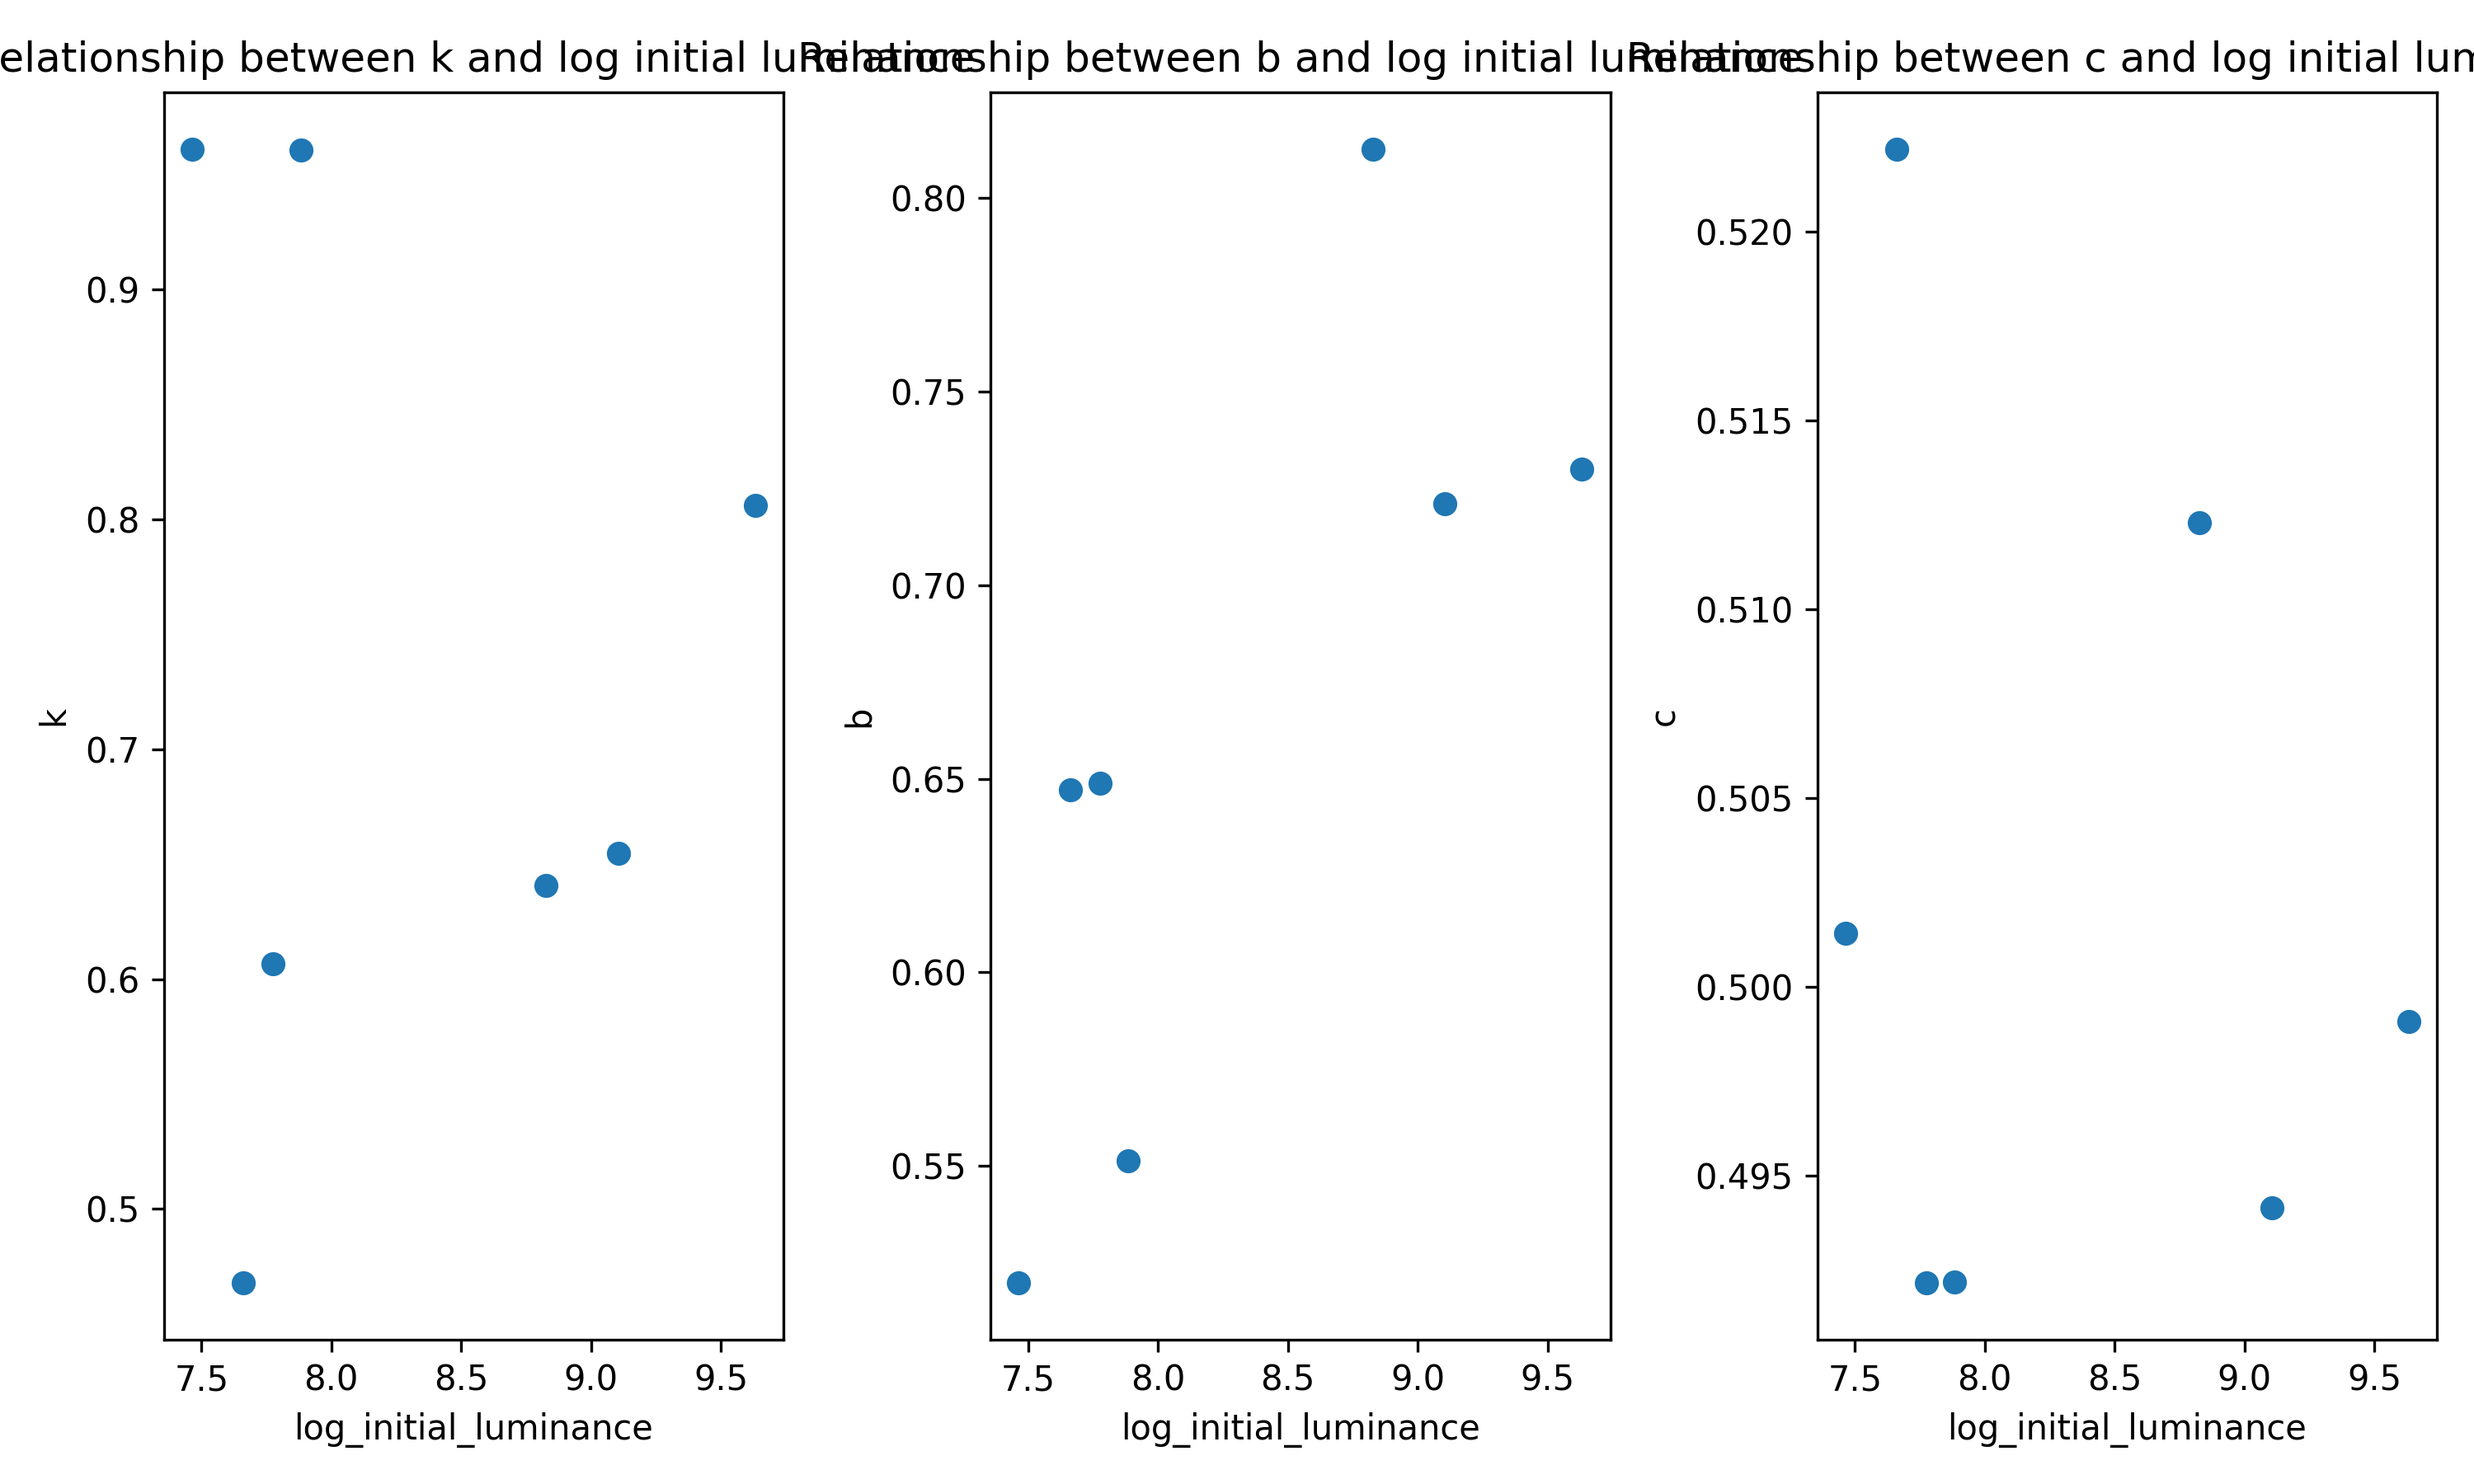
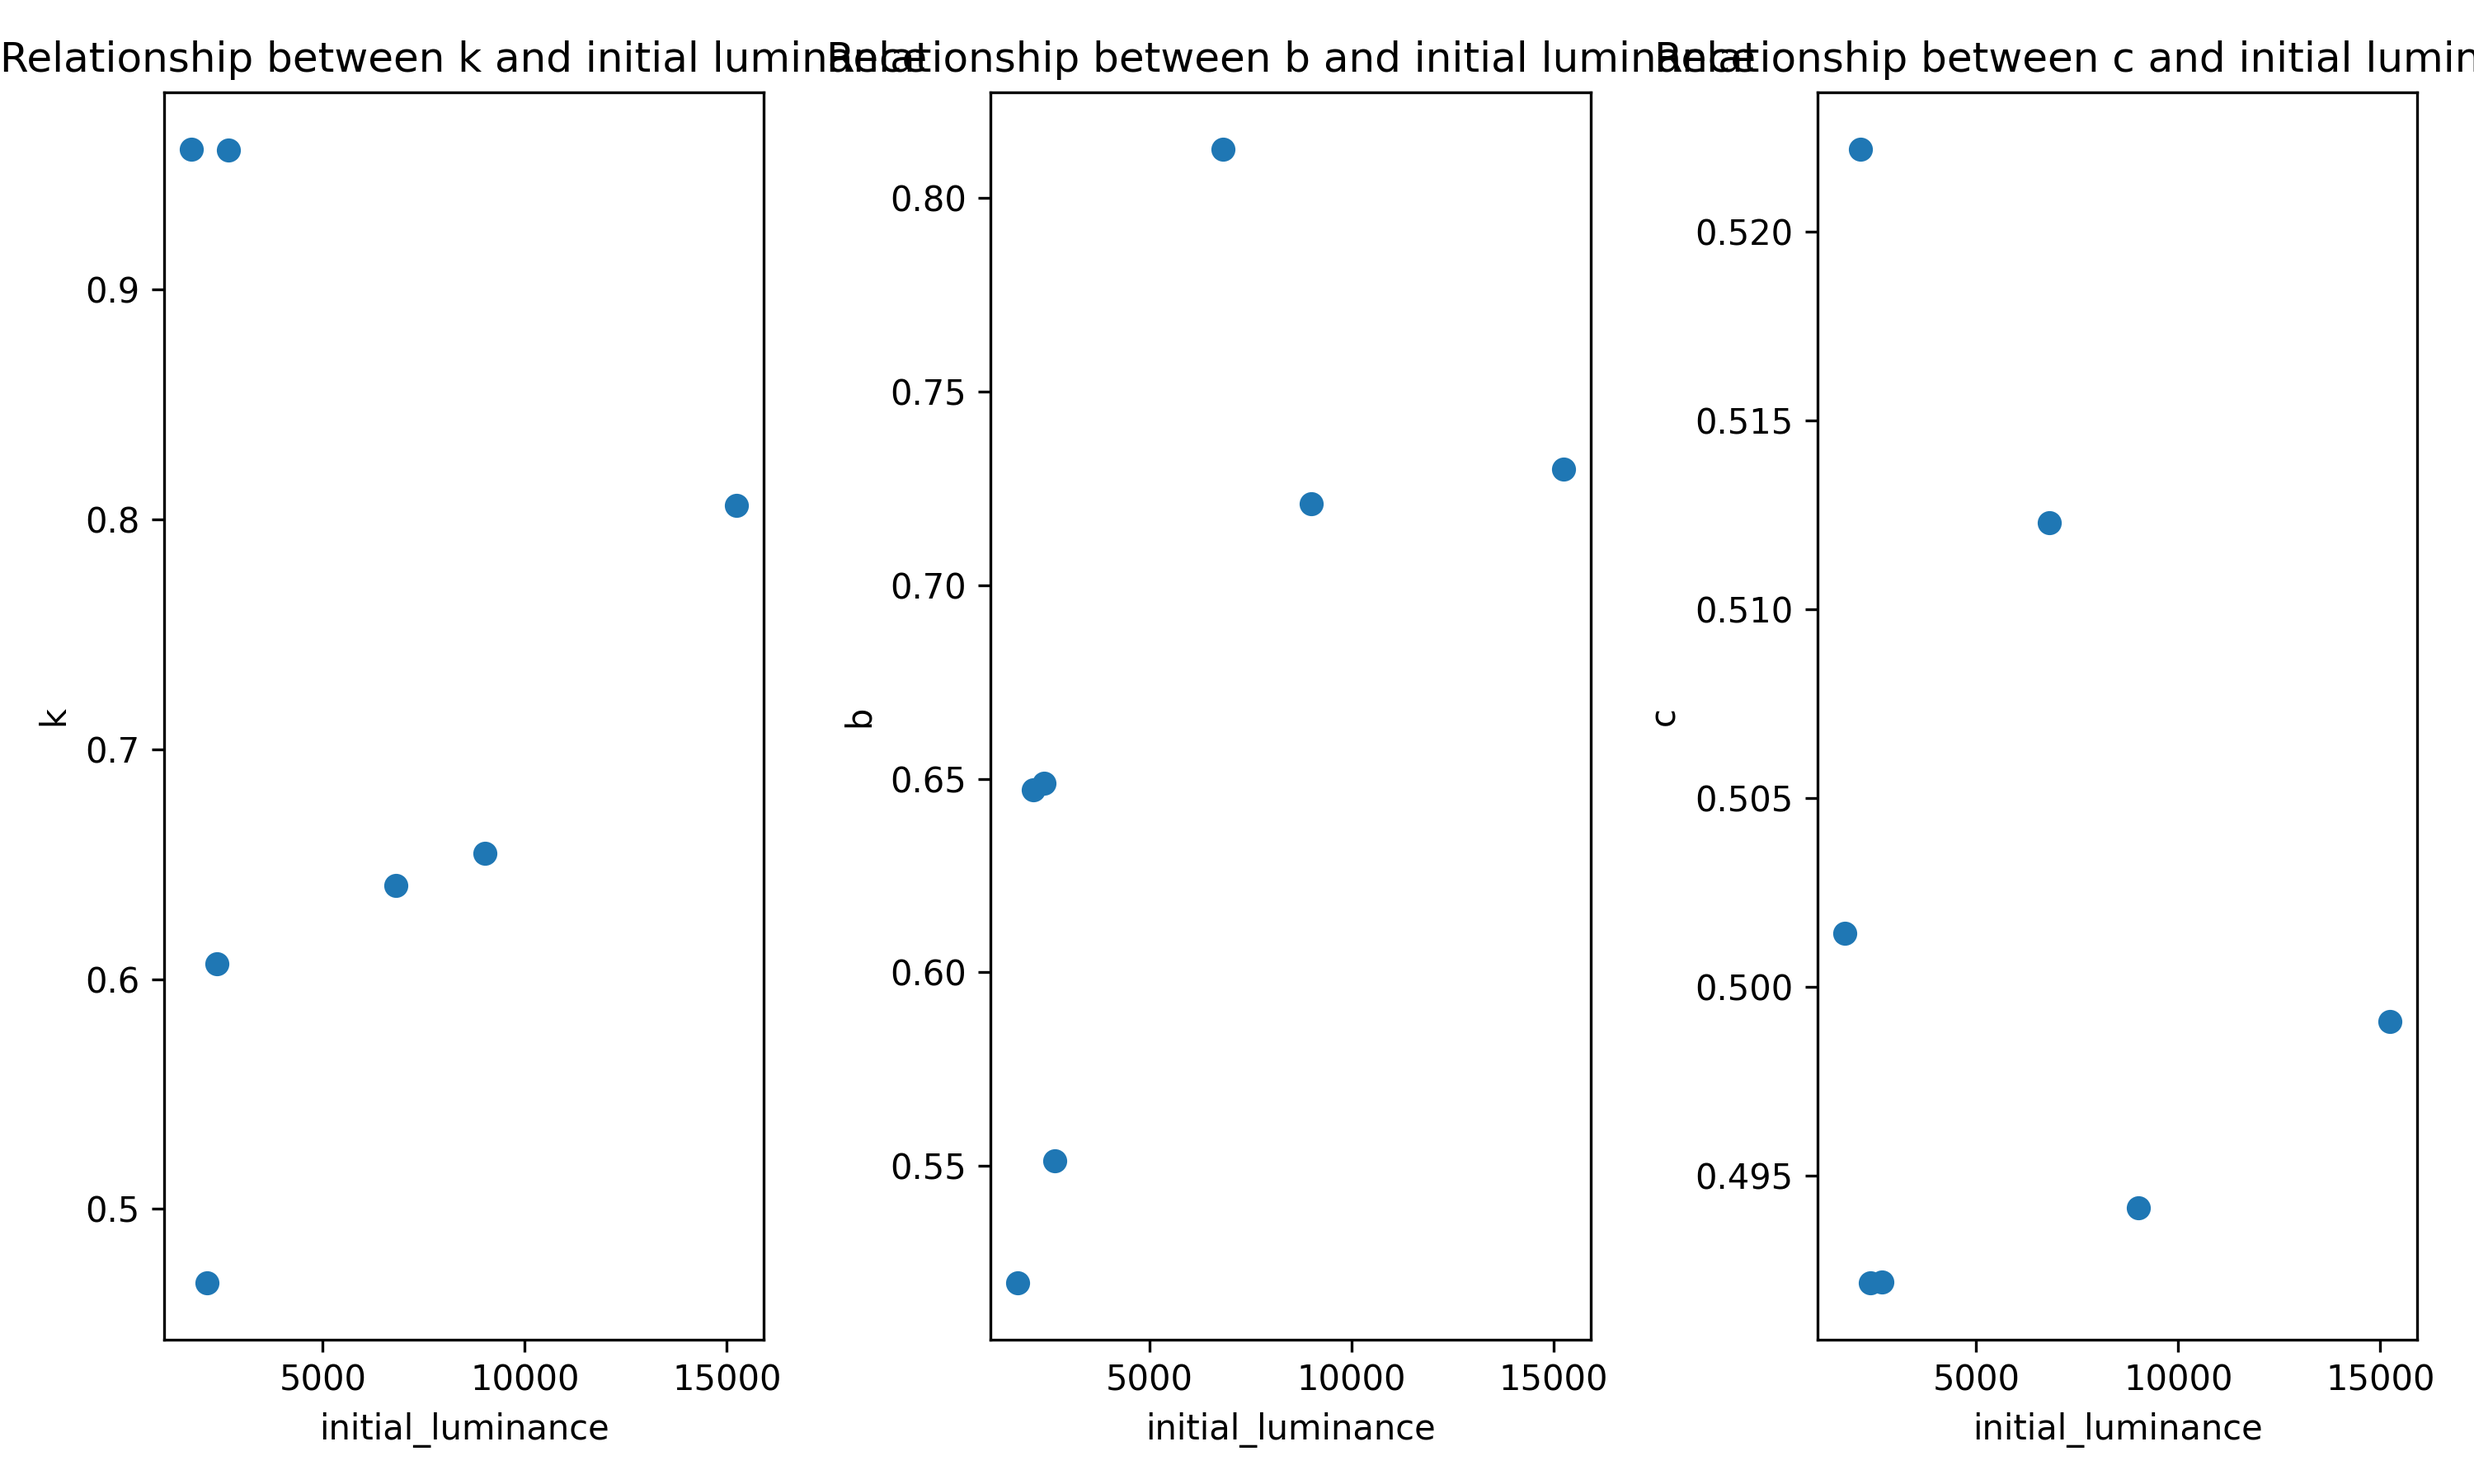
Use constant fit for High group, linear fit for Low group

diff --git a/HumanEyesAdaptator.py b/HumanEyesAdaptator.py
@@ -242,7 +242,7 @@ def fit_on_all_data_sets(data_sets, fit_func, output_base_dir):
         k_values, b_values, c_values, r2_avg, r2_scores, delta_Es = adaptator.fit()
         for k, b, c in zip(k_values, b_values, c_values):
             all_params.append((k, b, c))
-        luminance_values.extend([np.log(initial_luminance)] * len(k_values))  # Use log(initial_luminance) for fitting
+        luminance_values.extend([initial_luminance] * len(k_values))  # Use initial_luminance for fitting
 
         # Save comparison images using fitted k, b, and c
         output_dir = os.path.join(output_base_dir, f'comparison_images_{os.path.basename(os.path.dirname(initial_png_file))}')
@@ -274,21 +274,21 @@ def visualize_params(all_params, initial_luminance, output_file):
 
     plt.subplot(1, 3, 1)
     plt.scatter(unique_luminance, mean_k)
-    plt.xlabel('log_initial_luminance')
+    plt.xlabel('initial_luminance')
     plt.ylabel('k')
-    plt.title('Relationship between k and log initial luminance')
+    plt.title('Relationship between k and initial luminance')
 
     plt.subplot(1, 3, 2)
     plt.scatter(unique_luminance, mean_b)
-    plt.xlabel('log_initial_luminance')
+    plt.xlabel('initial_luminance')
     plt.ylabel('b')
-    plt.title('Relationship between b and log initial luminance')
+    plt.title('Relationship between b and initial luminance')
 
     plt.subplot(1, 3, 3)
     plt.scatter(unique_luminance, mean_c)
-    plt.xlabel('log_initial_luminance')
+    plt.xlabel('initial_luminance')
     plt.ylabel('c')
-    plt.title('Relationship between c and log initial luminance')
+    plt.title('Relationship between c and initial luminance')
     
     plt.tight_layout()
     plt.savefig(output_file, dpi=300)
@@ -298,24 +298,19 @@ def fit_relationships(all_params, luminance_values):
     k_values, b_values, c_values = zip(*all_params)
     k_values, b_values, c_values = np.array(k_values).ravel(), np.array(b_values).ravel(), np.array(c_values).ravel()
 
-    log_luminance = [item for l in luminance_values for item in [l]*10]
+    # Fit linear models for k, b, and c with respect to initial_luminance
+    def linear_model(x, m, c):
+        return m * x + c
 
-    # Fit linear models for k, b, and c with respect to log(initial_luminance)
-    def multi_var_model(x, b0, b1, b2):
-        return b0 + b1 * x[0] + b2 * x[1]
-
-    k_params, _ = curve_fit(multi_var_model, [log_luminance], k_values)
-    b_params, _ = curve_fit(multi_var_model, [log_luminance], b_values)
-    c_params, _ = curve_fit(multi_var_model, [log_luminance], c_values)
+    k_params, _ = curve_fit(linear_model, luminance_values, k_values)
+    b_params, _ = curve_fit(linear_model, luminance_values, b_values)
+    c_params, _ = curve_fit(linear_model, luminance_values, c_values)
 
     return k_params, b_params, c_params
 
 def apply_generalized_model(data_sets, k_params, b_params, c_params, output_base_dir):
     def linear_model(x, m, c):
         return m * x + c
-
-    def multi_var_model(x, b0, b1, b2):
-        return b0 + b1 * x[0] + b2 * x[1]
 
     all_r2_scores = []
     all_delta_Es = []
@@ -325,10 +320,9 @@ def apply_generalized_model(data_sets, k_params, b_params, c_params, output_base
         adaptator = HumanEyesAdaptator(initial_png_file, adjusted_png_files, initial_luminance, "gamma", luminance_file)
         
         # Calculate k, b, and c using the fitted relationships
-        log_luminance = np.log(initial_luminance)
-        k_values = k_params[0] + k_params[1] * log_luminance
-        b_values = b_params[0] + b_params[1] * log_luminance
-        c_values = c_params[0] + c_params[1] * log_luminance
+        k_value = linear_model(initial_luminance, *k_params)
+        b_value = linear_model(initial_luminance, *b_params)
+        c_value = linear_model(initial_luminance, *c_params)
         
         # Save adjusted images using best fit parameters
         output_dir = os.path.join(output_base_dir, 'adjusted_with_generalized_model', os.path.basename(initial_png_file).split('.')[0])
@@ -341,7 +335,7 @@ def apply_generalized_model(data_sets, k_params, b_params, c_params, output_base
             X_Ave = adaptator.X_Ave_values[i]
 
             # Calculate adjusted luminance
-            Y_pred = adaptator.apply_brightness_adjustment(adaptator.X, X_Ave, k_values[i], b_values[i], c_values[i])
+            Y_pred = adaptator.apply_brightness_adjustment(adaptator.X, X_Ave, k_value, b_value, c_value)
             
             # Calculate R² and ΔE
             r2 = r2_score(Y.ravel(), Y_pred.ravel())
@@ -352,7 +346,7 @@ def apply_generalized_model(data_sets, k_params, b_params, c_params, output_base
         all_r2_scores.append(r2_scores)
         all_delta_Es.append(delta_Es)
 
-        adaptator.save_comparison_images(output_dir, k_values, b_values, c_values, adaptator.X_Ave_values, r2_scores, delta_Es)
+        adaptator.save_comparison_images(output_dir, [k_value]*len(adjusted_png_files), [b_value]*len(adjusted_png_files), [c_value]*len(adjusted_png_files), adaptator.X_Ave_values, r2_scores, delta_Es)
 
     return all_r2_scores, all_delta_Es
 
@@ -375,7 +369,7 @@ def visualize_best_fit_results(all_r2_scores, all_delta_Es, output_file, k_param
         plt.title('ΔE for Each Adjusted Image')
 
     # Add best parameters and average R² to the plot
-    plt.figtext(0.5, 0.01, f'Fitted parameters relationships: k = {k_params[0]:.2f}*log(X_Ave) + {k_params[1]:.2f}, b = {b_params[0]:.2f}*log(X_Ave) + {b_params[1]:.2f}, c = {c_params[0]:.2f}*log(X_Ave) + {c_params[1]:.2f} | Best Average R²: {r2_avg:.2f}', ha='center', fontsize=10)
+    plt.figtext(0.5, 0.01, f'Fitted parameters relationships: k = {k_params[0]:.2f}*initial_luminance + {k_params[1]:.2f}, b = {b_params[0]:.2f}*initial_luminance + {b_params[1]:.2f}, c = {c_params[0]:.2f}*initial_luminance + {c_params[1]:.2f} | Best Average R²: {r2_avg:.2f}', ha='center', fontsize=10)
     
     plt.tight_layout()
     plt.savefig(output_file, dpi=300)
@@ -562,9 +556,101 @@ data_sets_low_luminance = [
 all_params_high, luminance_values_high = fit_on_all_data_sets(data_sets_high_luminance, "gamma", output_base_dir)
 all_params_low, luminance_values_low = fit_on_all_data_sets(data_sets_low_luminance, "gamma", output_base_dir)
 
-# Visualize and save the relationship between parameters and log luminance for both high and low luminance data sets
+# Visualize and save the relationship between parameters and initial luminance for both high and low luminance data sets
 output_file_high = os.path.join(output_base_dir, 'param_vs_luminance_high.png')
 visualize_params(all_params_high, luminance_values_high, output_file_high)
 
 output_file_low = os.path.join(output_base_dir, 'param_vs_luminance_low.png')
 visualize_params(all_params_low, luminance_values_low, output_file_low)
+
+# Calculate the average parameters for both high and low luminance data sets
+mean_k_high = np.mean([param[0] for param in all_params_high])
+mean_b_high = np.mean([param[1] for param in all_params_high])
+mean_c_high = np.mean([param[2] for param in all_params_high])
+
+mean_k_low = np.mean([param[0] for param in all_params_low])
+mean_b_low = np.mean([param[1] for param in all_params_low])
+mean_c_low = np.mean([param[2] for param in all_params_low])
+
+# Visualize and compare the predicted results using the average parameters
+def visualize_predictions(data_sets, mean_k, mean_b, mean_c, output_base_dir, fit_type='average'):
+    all_r2_scores = []
+    all_delta_Es = []
+
+    for data_set in data_sets:
+        initial_png_file, adjusted_png_files, initial_luminance, luminance_file = data_set
+        adaptator = HumanEyesAdaptator(initial_png_file, adjusted_png_files, initial_luminance, "gamma", luminance_file)
+        
+        output_dir = os.path.join(output_base_dir, 'predicted_vs_actual', os.path.basename(initial_png_file).split('.')[0])
+
+        r2_scores = []
+        delta_Es = []
+
+        for i, y_file in enumerate(adjusted_png_files):
+            Y = adaptator.extract_luminance_from_png(y_file)
+            X_Ave = adaptator.X_Ave_values[i]
+
+            if fit_type == 'linear':
+                k_value = mean_k[0] * initial_luminance + mean_k[1]
+                b_value = mean_b[0] * initial_luminance + mean_b[1]
+                c_value = mean_c[0] * initial_luminance + mean_c[1]
+            else:
+                k_value = mean_k
+                b_value = mean_b
+                c_value = mean_c
+
+            # Calculate adjusted luminance using mean parameters
+            Y_pred = adaptator.apply_brightness_adjustment(adaptator.X, X_Ave, k_value, b_value, c_value)
+            
+            # Calculate R² and ΔE
+            r2 = r2_score(Y.ravel(), Y_pred.ravel())
+            delta_E = np.sqrt(mse(Y, Y_pred))
+            r2_scores.append(r2)
+            delta_Es.append(delta_E)
+
+        all_r2_scores.append(r2_scores)
+        all_delta_Es.append(delta_Es)
+
+        adaptator.save_comparison_images(output_dir, [k_value]*len(adjusted_png_files), [b_value]*len(adjusted_png_files), [c_value]*len(adjusted_png_files), adaptator.X_Ave_values, r2_scores, delta_Es)
+
+    visualize_model_performance(all_r2_scores, all_delta_Es, output_base_dir)
+
+# Visualize model performance (R² and ΔE) curves for each model and luminance
+def visualize_model_performance(all_r2_scores, all_delta_Es, output_base_dir):
+    plt.figure(figsize=(12, 6))
+    
+    # Plot R² values
+    plt.subplot(1, 2, 1)
+    for i, r2_scores in enumerate(all_r2_scores):
+        plt.plot(range(1, len(r2_scores) + 1), r2_scores, marker='o', label=f'Model {i+1}')
+    plt.xlabel('Image Index')
+    plt.ylabel('R² Score')
+    plt.title('R² Scores for Each Adjusted Image')
+    plt.legend()
+    
+    # Plot ΔE values
+    plt.subplot(1, 2, 2)
+    for i, delta_Es in enumerate(all_delta_Es):
+        plt.plot(range(1, len(delta_Es) + 1), delta_Es, marker='o', label=f'Model {i+1}')
+    plt.xlabel('Image Index')
+    plt.ylabel('ΔE')
+    plt.title('ΔE for Each Adjusted Image')
+    plt.legend()
+    
+    plt.tight_layout()
+    output_file = os.path.join(output_base_dir, 'model_performance.png')
+    plt.savefig(output_file, dpi=300)
+    plt.close()
+    logging.info(f"Model performance figure saved to {output_file}")
+
+# Calculate the average parameters for high luminance data sets
+mean_k_high = np.mean([param[0] for param in all_params_high])
+mean_b_high = np.mean([param[1] for param in all_params_high])
+mean_c_high = np.mean([param[2] for param in all_params_high])
+
+# Fit linear models for low luminance data sets
+k_params_low, b_params_low, c_params_low = fit_relationships(all_params_low, luminance_values_low)
+
+# Apply the generalized model and visualize predictions
+visualize_predictions(data_sets_high_luminance, mean_k_high, mean_b_high, mean_c_high, output_base_dir, fit_type='average')
+visualize_predictions(data_sets_low_luminance, k_params_low, b_params_low, c_params_low, output_base_dir, fit_type='linear')
